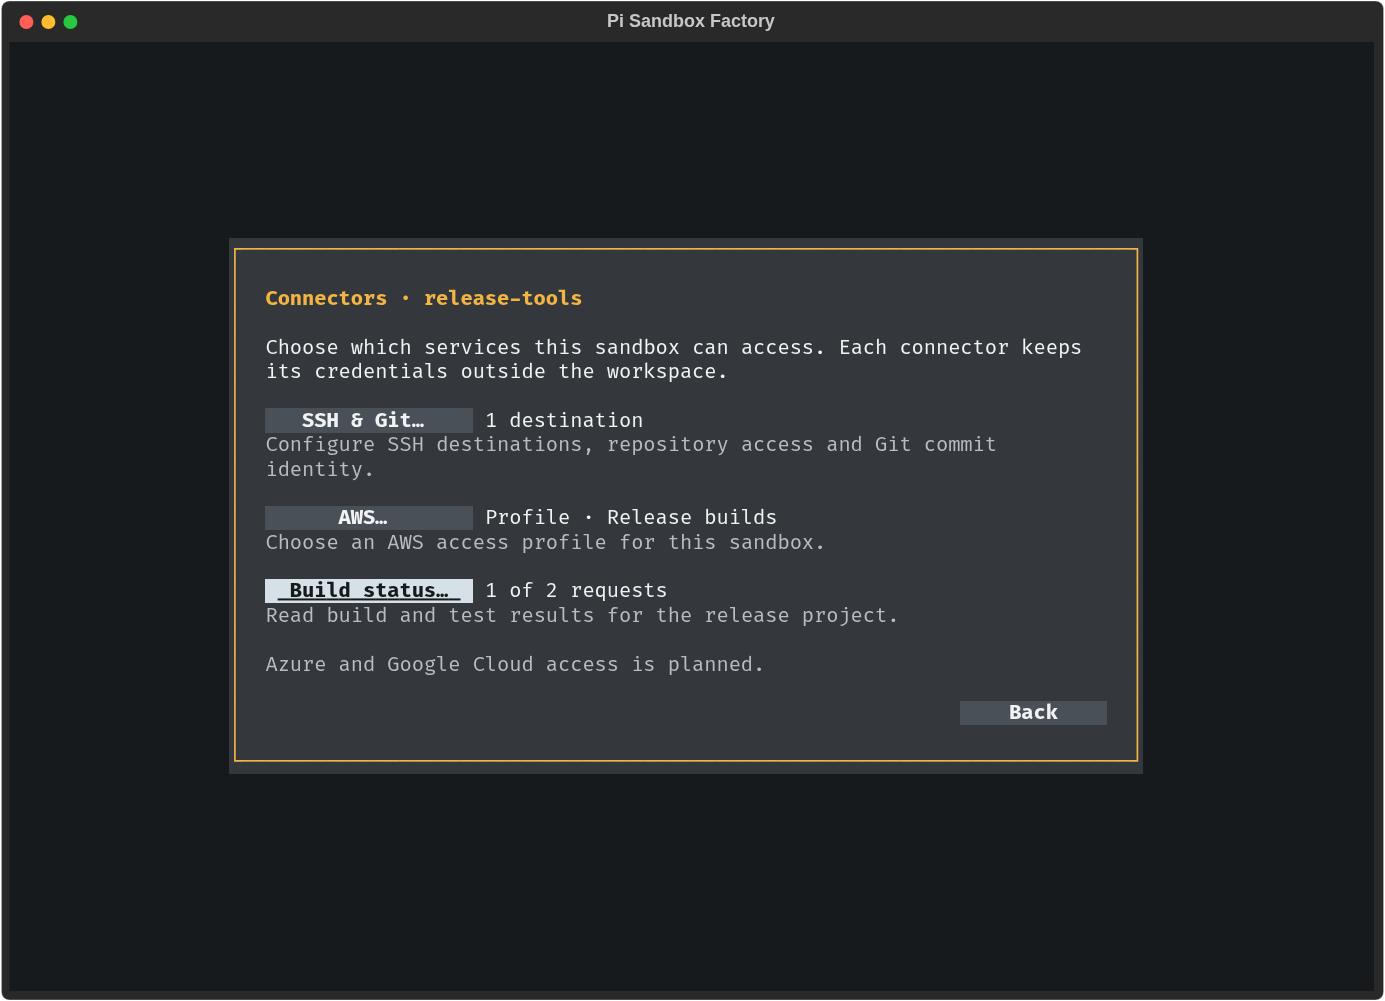
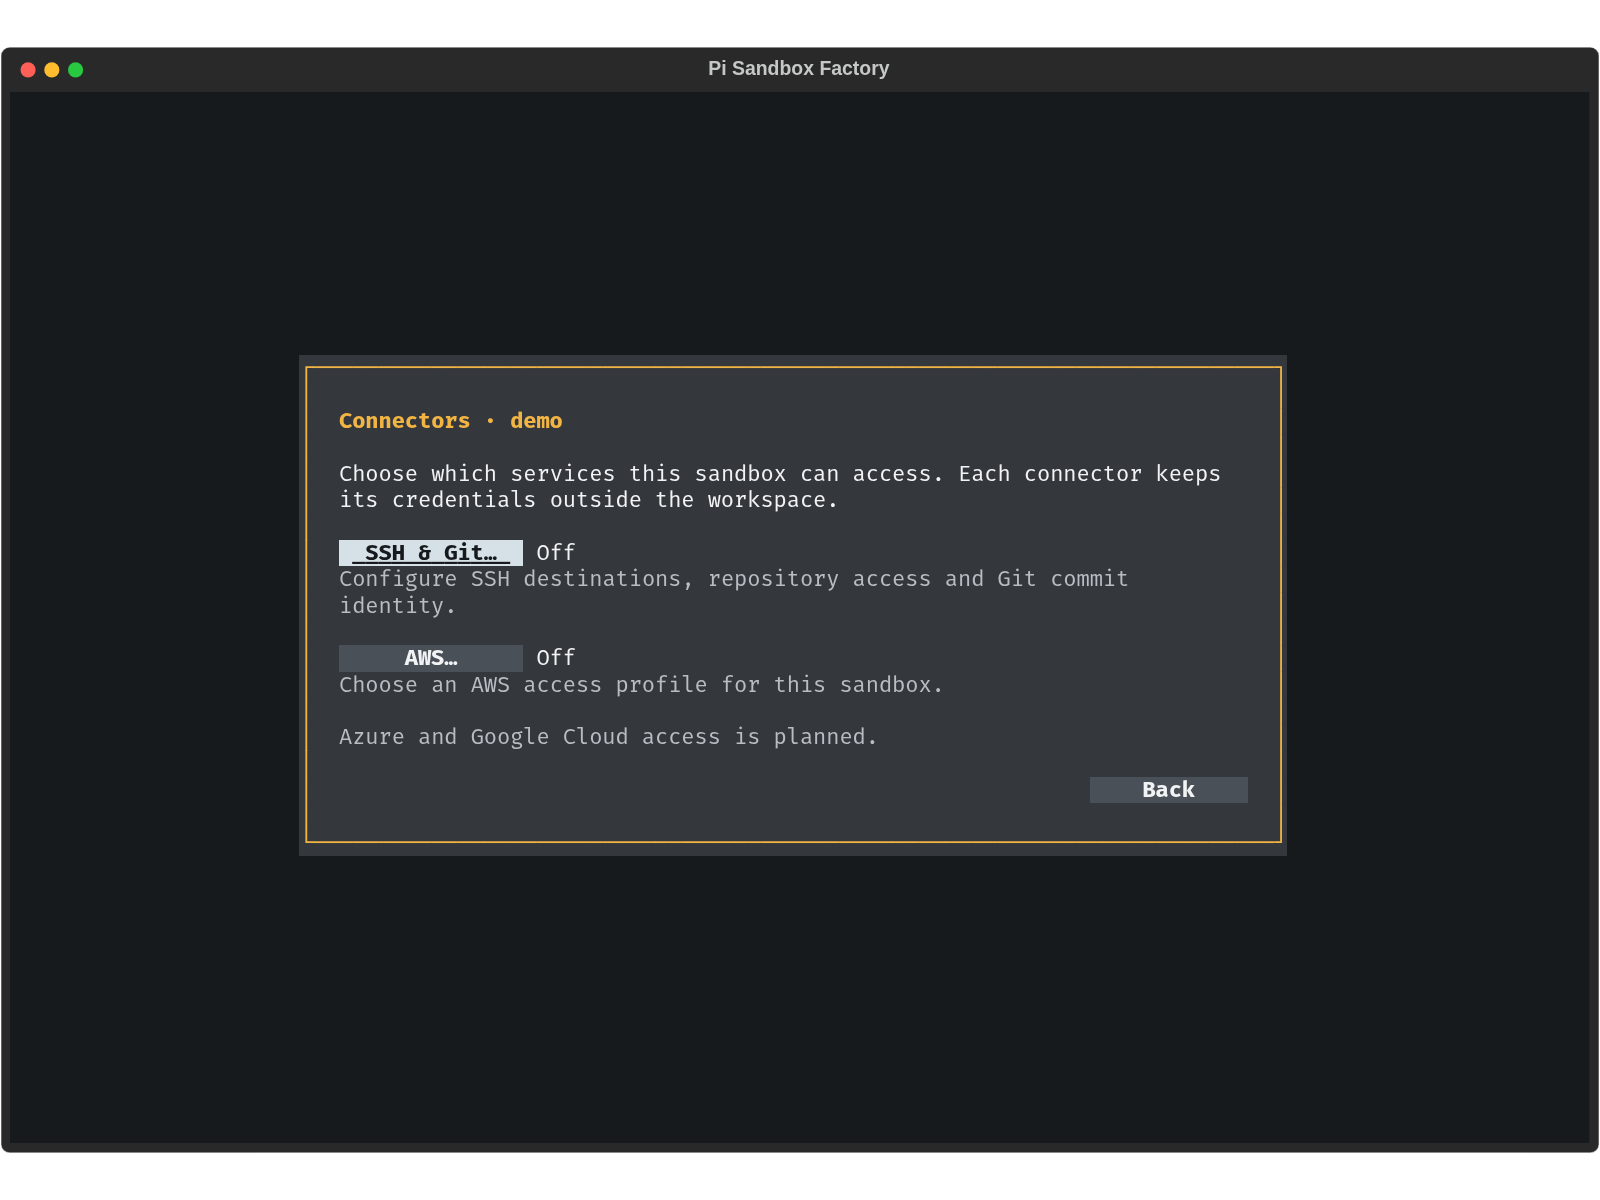
Document built-in connectors with current setup screenshots

diff --git a/README.md b/README.md
@@ -2,7 +2,7 @@
 
 Run Pi, Codex, Claude Code or Antigravity in a sandbox with your project folder, saved chats and restricted networking by default. Choose the coding agent when you create the sandbox.
 
-Open Pi in your browser with [FrostPi](https://github.com/kyuz0/pi-vscode-ui/tree/pi-sandbox-factory). Choose **Browser editor** to work beside your files or **FrostPi in browser** for chat on its own. You can also use Pi CLI or VS Code on your computer. FrostPi uses the same Pi executable as the CLI. Codex, Claude Code and Antigravity offer a browser editor with their own chat panel, or a terminal client.
+Open Pi in your browser with [FrostPi](https://github.com/kyuz0/pi-vscode-ui). Choose **Browser editor** to work beside your files or **FrostPi in browser** for chat on its own. You can also use Pi CLI or VS Code on your computer. FrostPi uses the same Pi executable as the CLI. Codex, Claude Code and Antigravity offer a browser editor with their own chat panel, or a terminal client.
 
 ![Pi Sandbox Factory dashboard](docs/sandboxes.png)
 
@@ -29,9 +29,9 @@ Open a new terminal if `pi-sandbox-factory` is not found.
 3. Open **Connectors** if your agent needs SSH, Git, AWS or an installed HTTPS service. Choose what this sandbox may use. You can make this choice later in **Settings → Connectors**. [Connector setup](docs/connectors.md)
 4. Choose **Create and start sandbox**. Leave the option to open your agent checked if you want to begin working as soon as the sandbox is ready. If Pi asks you to choose a hosted model, select the model, choose **Use as default**, then **Continue**.
 
-![Connector settings for SSH and Git, AWS and an example build service](docs/connectors.png)
+![Built-in SSH and Git and AWS connectors in sandbox settings](docs/connectors.png)
 
-SSH & Git and AWS are built in. **Build status** appears here because the example connector was installed for this screenshot.
+SSH & Git and AWS are built in. [Connectors](docs/connectors.md) explains how to configure them and install an HTTPS connector for another service.
 
 If a hosted-only setup hits a `pasta` error on Linux or WSL, turn off
 **Connect to models on this computer**. [Linux local model requirements](docs/platforms.md#linux-local-models)
@@ -44,7 +44,7 @@ If a hosted-only setup hits a `pasta` error on Linux or WSL, turn off
   connection. HTTP and HTTPS go through a gateway that checks the destination
   hostname and port. Approved shell commands still follow those network rules.
   **Unrestricted** gives the container ordinary network access. [Isolation and approvals](docs/architecture.md#restricted-networking)
-- **Allowed destinations:** In **Settings → Network and Web Search → Network**,
+- **Allowed destinations:** Open **Settings → Network and Web Search → Network** for Pi, or **Settings → Network** for the other coding agents. Then
   select **Website categories** such as **Python**, **npm**, or **GitHub**, or
   add an exact host and port such as `docs.python.org:443`. If a package
   downloads a binary from another host, allow that host too. Editing rules keeps
@@ -93,5 +93,5 @@ For a walkthrough, choose **Getting started…** beside either profile or type
 ## Further reading
 
 - [Browser editor](docs/browser-editor.md) · [Agent browser and vault protection](docs/usage.md#see-and-interact-with-the-agents-browser) · [Slack](docs/communications.md)
-- [Approval modes](docs/approvals.md) · [SSH](docs/ssh.md) · [Git repository permissions](docs/repository-access.md) · [Advisors](docs/advisors.md)
+- [Approval modes](docs/approvals.md) · [SSH](docs/ssh.md) · [Git repository permissions](docs/repository-access.md) · [AWS access](docs/aws-access.md) · [Advisors](docs/advisors.md)
 - [Development and tests](TESTING.md) · [Agent guide](AGENTS.md)

diff --git a/docs/aws-access.md b/docs/aws-access.md
@@ -6,8 +6,10 @@ Use a dedicated IAM role for sandbox work. Its trust policy must allow your host
 
 1. During creation, open **Review sandbox → Connectors → AWS…**. For an existing sandbox, open **Settings → Connectors → AWS…**.
 2. Select a saved AWS access profile, or choose **New…** and give it a name. Enter the host AWS CLI profile name, the dedicated role ARN and the AWS region.
-3. Enter one action and resource per line. For example, `ec2:DescribeRegions *` lets Pi list regions. For a resource-scoped action, enter the resource ARN or ARN pattern. Repeat an action on another line to add another resource.
+3. Enter one action and resource per line. For example, `ec2:DescribeRegions *` lets the agent list regions. For a resource-scoped action, enter the resource ARN or ARN pattern. Repeat an action on another line to add another resource.
 4. Save the profile and choose **Use profile**. Try `aws ec2 describe-regions` if you granted that action. In Python, `boto3.client("ec2").describe_regions()` uses the same permissions.
+
+![Editing the host profile, IAM role and allowed actions for AWS access](aws-profile-editor.png)
 
 The first connection installs AWS CLI and Boto3. If a sandbox already has a container,
 Factory asks before replacing it. Project files, the sandbox home folder and saved
@@ -19,11 +21,13 @@ If Factory reports that an older Pi sandbox needs a runtime update, use
 
 Open **Library → AWS access** to edit or duplicate a profile. A duplicate has its own name and permissions. After you save an edit, select the sandboxes that should receive it and choose **Apply to selected**. Unchecked sandboxes keep their saved permissions. Choose **Skip** to save only to the library, or **Apply saved update…** to update more sandboxes later. Running sandboxes receive the new permissions immediately. Stopped sandboxes use them at their next start.
 
+![Choosing which sandboxes receive an edited AWS profile](aws-profile-update.png)
+
 Open **Settings → Connectors → AWS…** to assign a different profile or disconnect. **Disconnect** removes the signer. Assigning a profile again reuses the AWS tools in the current sandbox container. Stopping the sandbox stops signing and renewal. When your host sign-in expires, sign in again on the host so Factory can renew the session.
 
 ## Credentials and permissions
 
-The host obtains the role session. A separate container holds its credentials in memory and signs requests for that sandbox. Pi's CLI receives a local endpoint and placeholder credentials. Each allowed action can be used by any process in that sandbox. Include the effect of granting access to secret data, changing IAM permissions, or delegating work to another AWS role when choosing permissions.
+The host obtains the role session. A separate container holds its credentials in memory and signs requests for that sandbox. The sandbox's AWS tools receive a local endpoint and placeholder credentials. Each allowed action can be used by any process in that sandbox. Include the effect of granting access to secret data, changing IAM permissions, or delegating work to another AWS role when choosing permissions.
 
 Use individual IAM actions and resource ARNs or `*`. The sandbox grant supports simple action and resource rules. Put conditions and other restrictions in the role policy. The host handles STS operations. This connection supports standard regional HTTPS service endpoints with ordinary Signature Version 4 requests. Presigned URLs, chunk-signed uploads, interactive streaming protocols and custom service endpoints require other mechanisms.
 

diff --git a/docs/connectors.md b/docs/connectors.md
@@ -10,6 +10,28 @@ Open **Review sandbox → Connectors** during creation, or **Settings → Connec
 
 Azure and Google Cloud access is planned. The available connectors appear in the same place for Pi, Codex, Claude Code and Antigravity.
 
+![Built-in connectors in sandbox settings](connectors.png)
+
+## Connect to an SSH host
+
+Open **SSH & Git…**. Add the SSH destinations this sandbox may reach and supply their trusted host keys. Generate a key for this sandbox or import an existing key from your computer. The private key stays in a separate container; the agent connects through the aliases you configured. [SSH setup and key management](ssh.md#ssh-setup)
+
+![SSH destinations and key selection during sandbox creation](ssh-destinations.png)
+
+## Give the agent Git access
+
+In **SSH & Git…**, choose **Add repository…** and enter its GitHub or GitLab URL. Register the sandbox's public key as a deploy key on that repository. The Git server controls whether it can read or push. Open **Git commit identity** in the same form to choose the author name and email. [Repository setup](repository-access.md) · [Commit identity](ssh.md#commit-identity)
+
+![Adding a Git repository to the SSH connector](git-repository.png)
+
+## Give the agent AWS access
+
+Sign in with AWS CLI on your computer, then open **AWS…**. Choose **New…** to save a profile with your host AWS profile, a dedicated IAM role, a region and the allowed actions and resources. Save it and choose **Use profile**. The sandbox can use AWS CLI and Boto3 within those permissions; your sign-in stays outside it. [AWS setup and permissions](aws-access.md)
+
+![A saved AWS access profile and its permissions](aws-profile.png)
+
+Use **Library → AWS access** to edit or duplicate profiles. After an edit, choose which sandboxes receive the update. Other sandboxes keep their existing permissions.
+
 ## Give a sandbox access to an HTTPS service
 
 1. Install a connector for the service on your computer. This guide uses **Build status**, a fictional service. To try the example with your own build service, replace its example URLs before installing it.

diff --git a/docs/ssh.md b/docs/ssh.md
@@ -7,6 +7,8 @@ Enter the name and email to record on commits. For an existing sandbox, use
 **Settings → Connectors → SSH & Git → Git commit identity**, then apply the settings.
 You can also set this under **Defaults for new sandboxes**.
 
+![Setting the Git commit author in the SSH and Git connector](git-identity.png)
+
 Factory sets the default name and email for commits inside the sandbox. If a
 repository already has its own `user.name` or `user.email`, those values take
 precedence. Turning off **Set Git commit identity** removes Factory’s default
@@ -20,6 +22,7 @@ clone, fetch and push; cryptographic commit signing is configured separately.
 
 Enable **GitHub** under **Settings → Network and Web Search → Network → Website categories** for repository
 browsing, API requests, clones and release downloads over HTTPS.
+For Codex, Claude Code and Antigravity, use **Settings → Network → Website categories**.
 
 For authenticated Git operations with an isolated private key, use SSH.
 
@@ -29,6 +32,8 @@ In **Review sandbox → Connectors → SSH & Git**, enter destinations or import
 Choose **Generate repository key** or **Import and unlock** to set up the key
 as soon as the sandbox starts. If you generate a key, Factory displays its
 public half for you to register with the Git server.
+
+![Configuring SSH destinations and choosing a key during sandbox creation](ssh-destinations.png)
 
 For GitHub or GitLab, use **Add repository…** and follow [repository setup](repository-access.md).
 

diff --git a/docs/usage.md b/docs/usage.md
@@ -103,6 +103,7 @@ when you’re ready to switch.
 
 | Settings you change | When they apply | What to do afterwards |
 | --- | --- | --- |
+| Approvals for Codex, Claude Code or Antigravity | Save keeps current work running. The selected mode applies when you next start the sandbox. | Restart the sandbox when ready. |
 | Approvals & sandbox, Agent tools, Document search, Skills, Web Search, Communications, Local models & provider plugins, Resources & environment, or Network mode | Apply builds the image, then recreates the sandbox and stops active tasks, terminals and browser processes. Files and saved chats remain. | Choose **Open** in Factory, reload VS Code or restart Pi CLI, then resume your saved chat. Reopen the browser viewer and sign in again if prompted. |
 | Network rules: allowed hosts and website categories | Only the gateway restarts. Sandbox processes keep running. | Retry interrupted connections. |
 | Folders: add/remove mounts or change write access | The sandbox is recreated. Removed host folders are not deleted. | Reopen the client and resume your saved chat. |

diff --git a/docs/approvals.md b/docs/approvals.md
@@ -3,6 +3,8 @@
 The approval mode tells Pi who decides when a tool needs permission. You can
 let a reviewer decide, have Pi ask you, or turn approval prompts off.
 
+For Codex, Claude Code and Antigravity, open **Settings → Approvals**. Choose the agent's automatic mode or **Ask for approval**. Saving keeps current work running; restart the sandbox when you want to use the new mode. See [native agent approval controls](browser-editor.md#open-a-sandbox).
+
 ## Configuration and updates
 
 1. Select your sandbox in Factory and open **Settings → Approvals & sandbox**.

diff --git a/docs/repository-access.md b/docs/repository-access.md
@@ -3,6 +3,10 @@
 Use **Settings → Connectors → SSH & Git**. Private keys stay in the SSH companion;
 GitHub or GitLab controls what the key can do. Factory holds one key per sandbox.
 
+You can also configure repository access during creation under **Review sandbox → Connectors → SSH & Git**.
+
+![Adding a repository URL and choosing an SSH alias](git-repository.png)
+
 ## Read-only repository
 
 1. Choose **Add repository…**, enter its HTTPS project URL and **Add destination**.
